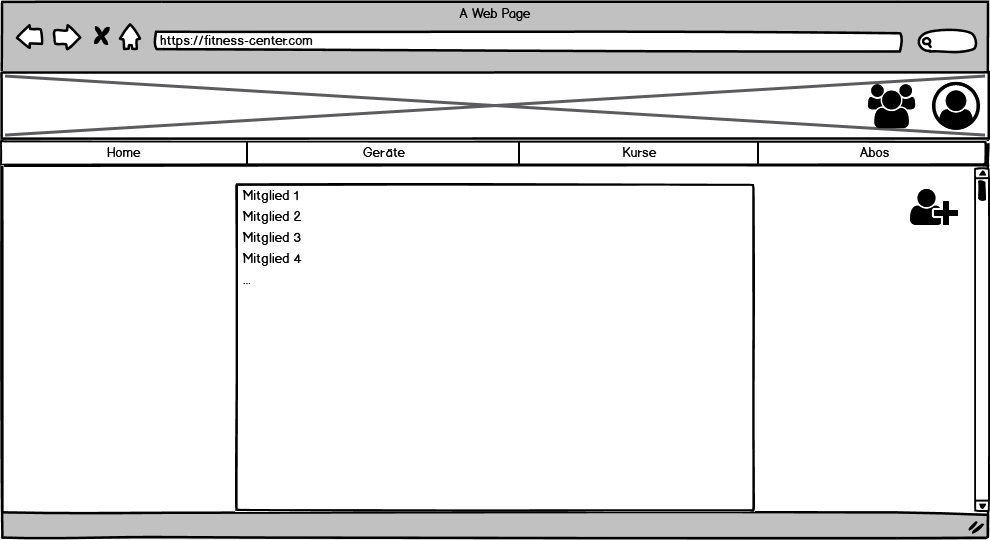
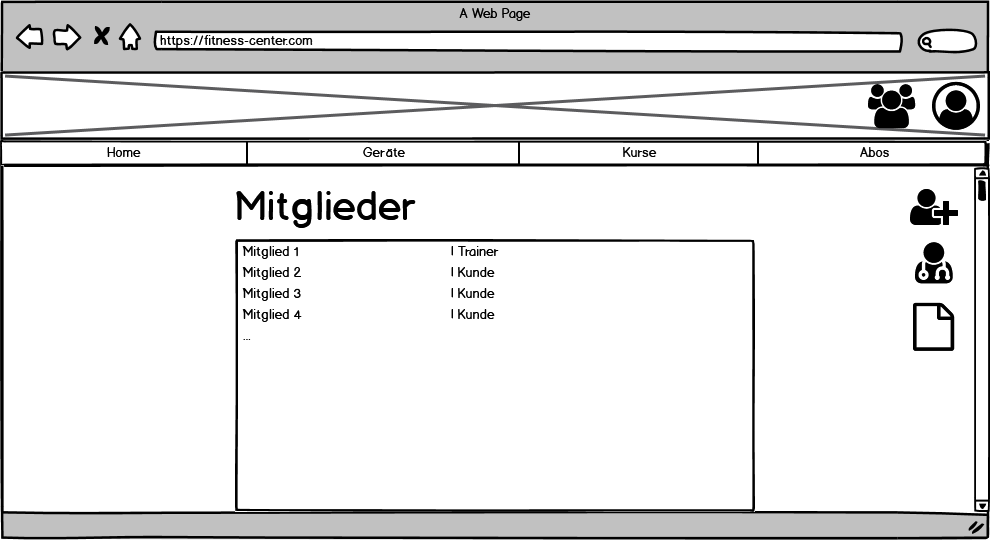
Anpassungen und Glossar

diff --git a/docs/malte_riechmann/spezifikation_fitnesscenter.md b/docs/malte_riechmann/spezifikation_fitnesscenter.md
@@ -105,29 +105,85 @@ PDF-Version mit Verlinkung im Projekt Repository
 
 ![abos](./img/mockups/home.png)
 
+User Story: Standorte anschauen
+
 #### Geräte
 
 ![abos](./img/mockups/geraete.png)
+
+User Story: Geräte anschauen/hinzufügen/bearbeiten/löschen
 
 #### Kurse
 
 ![abos](./img/mockups/kurse.png)
 
+User Story: Kurse anschauen/hinzufügen/bearbeiten/löschen
+
 #### Abos
 
 ![abos](./img/mockups/abos.png)
+
+User Story: Abonnement anschauen/hinzufügen/bearbeiten/löschen
 
 #### Profil
 
 ![abos](./img/mockups/profil.png)
 
+User Story: Persönlichen Daten ansehen/bearbeiten, Termin beim Physiotherapeuten beantragen
+
+#### Trainingsplan herunterladen
+
+![abos](./img/mockups/trainingsplan.png)
+
+User Story: Trainingsplan herunterladen
+
+#### Trainingsplan beantragen
+
+![abos](./img/mockups/trainingplan_antrag.png)
+
+User Story: Trainingsplan beantragen und Anamnese ausfüllen
+
 #### Mitglieder
 
 ![abos](./img/mockups/mitglieder.png)
 
+User Story: Alle Mitglieder anzeigen
+
+#### Mitglied einfügen
+
+![abos](./img/mockups/add_mitglied.png)
+
+User Story: Mitglied einfügen
+
+#### Trainingsplan Anträge
+
+![abos](./img/mockups/plan_antrag.png)
+
+User Story: Trainingsplan Anträge anzeigen
+
+#### Behandlungs-Anträge
+
+![abos](./img/mockups/behandlungs_antrag.png)
+
+User Story: Behandlungsanträge ansehen
+
 #### Mitglied Details
 
 ![abos](./img/mockups/mitglied_detail.png)
+
+User Story: Mitglied ansehen/bearbeiten/entfernen, Mitglieder Rolle einstellen
+
+#### Trainingsplan hochladen
+
+![abos](./img/mockups/trainingsplan_hochladen.png)
+
+User Story: Trainingsplan hinzufügen/ändern
+
+#### Behandlungsakte
+
+![abos](./img/mockups/akte_ansehen.png)
+
+User Story: Behandlungsakte einsehen/bearbeiten
 
 
 ## 2.5 Anforderungen im Detail
@@ -143,6 +199,8 @@ PDF-Version mit Verlinkung im Projekt Repository
 | Kunde | einen Termin beim Physiotherapeuten beantragen können | behandelte werden kann. | Anmeldungsformular für Physiotherapeuten vorhanden | optional |
 | Kunde | einen neuen Trainingsplan beantragen können | ich mein Training an meine aktuelle Verfassung anpassen kann. | Antragsformular für Trainingsplan vorhanden | optional |
 | Kunde | meine Trainingspläne  einsehen können | ich meine Fortschritte sehen kann. | Persönlicher Trainingsplan angezeigt wird | optional |
+| Kunde | meine persönlichen Daten einsehen können | ich sehe, was über mich gespeichert ist. | Persönliche Daten werden angezeigt | mittel |
+| Kunde | meine persönlichen Daten bearbeiten können | veraltete Informationen aktualisiert werden können- | Persönliche Daten werden geändert | mittel |
 
 **Allgemeine Verwaltung**
 
@@ -166,12 +224,8 @@ PDF-Version mit Verlinkung im Projekt Repository
 | Trainer/ Chef/ Physiotherapeut | Mitglieder ansehen können | ich die jeweiligen Mitglieder optimal beraten kann | Mitglieder angezeigt werden | hoch |
 | Trainer/ Chef/ Physiotherapeut | Mitglieder bearbeiten können | ich neue Information einfügen und veraltete entfernen kann | Mitglieder werden bearbeitet | mittel |
 | Trainer/ Chef/ Physiotherapeut | Mitglieder entfernen können | Persönlich Daten nicht gespeichert werden müssen, wenn es nicht nötig ist | Mitglieder werden gelöscht | hoch |
-| Chef | Trainerrollen vergeben können | neue Trainer alle wichtige Funktionen nutzen können | Trainerrolle hinzufügen | niedrig |
-| Chef | Trainerrollen entfernen können | ehemalige Trainer keinen Zugriff auf persönliche Daten haben | Trainerrolle entfernen | niedrig |
-| Chef | Physiotherapeuten-rolle vergeben können | neue Physiotherapeuten alle wichtige Funktionen nutzen können | Physiotherapeuten hinzufügen | niedrig |
-| Chef | Physiotherapeuten-rolle entfernen können | ehemalige Physiotherapeuten keinen Zugriff auf persönliche Daten haben | Physiotherapeuten entfernen | optional |
-| Chef | neue Chefs hinzufügen können | neue Führungspersonen auf alle Funktionen zugreifen können | Chef hinzufügen | optional |
-| Chef | Chefs entfernen können | ehemalige Führungspersonen keinen Zugriff auf persönliche Daten haben | Chef entfernen | optional |
+| Chef | Mitgliederrollen vergeben können | jeder Zugriff auf die relevanten Funktionen hat | Rolle ändern | niedrig |
+| Trainer/ Chef/ Physiotherapeut | alle Mitglieder ansehen können   | ich dann die Information zu den einzelnen Mitgliedern abrufen kann | Mitglieder anzeigen          | hoch          |
 
 **Trainer und Therapeuten Funktionen**
 
@@ -227,9 +281,6 @@ PDF-Version mit Verlinkung im Projekt Repository
 }
 ````
 
-
-- 
-
 ## 3.3.1 Ereignisse
 
 - In Event-gesteuerten Systemen: Definition der Ereignisse und deren Attribute
@@ -258,8 +309,6 @@ An dieser Stellen werden drei wichtige Abläufe in Form von Aktivitätsdiagramme
 
 ## 3.6 Entwurf
 
-- Detaillierte UML-Diagramme für relevante Softwarebausteine
-
 ## 3.7 Fehlerbehandlung 
 
 * Mögliche Fehler / Exceptions auflisten
@@ -280,12 +329,9 @@ An dieser Stellen werden drei wichtige Abläufe in Form von Aktivitätsdiagramme
 
 ## 4.2 Verantwortlichkeiten
 
-- Zuordnung von Personen zu Softwarebausteinen aus Kapitel 3.1 und 3.2
-- Rollendefinition und Zuordnung
-
 | Softwarebaustein | Person(en) |
 |----------|-----------|
-| Komponente A-Z | Malte Riechmann |
+| Alle | Malte Riechmann |
 
 ### Rollen
 
@@ -320,7 +366,19 @@ Implementiert die funktionale Logik der Anwendung. Hierbei werden zudem diverse 
 
 ## 5.1 Glossar 
 
-- Definitionen, Abkürzungen, Begriffe
+| Begriff                  | Erläuterung des Begriffs im Kontext diese Spezifikation      |
+| ------------------------ | ------------------------------------------------------------ |
+| Trainingsplan            | Ein Trainingsplan enthält die verschiedenen Geräte, an denen der Kunde pro Trainingseinheit trainiert. Außerdem enthält er Information wie viele Sätze je Gerät getätigt werden sollen (Anzahl aktiver Phasen) und wie viele Wiederholungen in jedem Satz (bei zyklischen Übungen) oder einer Dauer (bei nicht zyklischen Übungen) |
+| Abonnement               | Ein Kunde der aktiv trainiert muss für die Nutzung der Services monatlich einen bestimmten Betrag Zahlen. Die höhe dieses Betrages und wie Anzahl der Monate, die der Kunde mindestens bezahlen muss werden in einem Abonnement festgehalten. |
+| Physiotherapeut (Physio) | Ausgebildet Fachkräfte zur Prävention, Behandlung und Rehabilitation von Verletzungen im Bereich oder Bedingt durch Körperhaltung, Beweglichkeit, Kraft, Geschicklichkeit und ähnlichem. Außerdem können sie Funktionen im Wellnessbereich übernehmen zur Erhaltung der körperlichen und geistigen Gesundheit und Leistungsfähigkeit. Ein Physiotherapeut ist zudem auch ein ausgebildeter Trainer. |
+| Trainer                  | Sind Fachkräfte mit mindestens einer C-Lizenz im Fitnesstrainer Bereich |
+| Chef                     | Der Chef übernimmt Verwaltungsaufgaben. Er stellt Arbeitspläne auf und kümmert sich um alle finanziellen und organisatorischen Aufgaben. |
+| Kurs                     | Ein Kurs ist ein festes Fitness-Programm welches ein Trainer mit einer Gruppe von bis zu 20 Leuten durchführt. Dies kann Materialien um fassen, muss es aber nicht. Kurse sollten intensiv sein und eine Dauer von 2 Stunden nicht überschreiten, da nicht so gut auf einzelne Personen eingegangen werden kann. |
+| (Trainings-)Gerät        | Alle Geräte die in einer bestimmten Sportart nur dem Training dienen (Beispiel:Laufband, Hometrainer) oder die sportartenübergreifenden als Trainingsgeräte genutzt werden |
+| Behandlungsakte          | Die Behandlungsakte dient als Protokoll zu den einzelnen Terminen eines Kunden beim Physiotherapeuten. Sie enthält Daten bezüglich der angewendeten Methoden, dem gesundheitlichen Zustand und dem geplanten weiteren Vorgehen. |
+| Rollen                   | Ein Mitglied kann die Rollen Trainer, Kunde, Physiotherapeut und Chef einnehmen. |
+| Trainer Lizenzen         | Die Fitnesstrainer Lizenzen beginnen bei Stufe C und gehen bis Stufe A. Die Stufe C umfasst Grundlagen bezüglich der Anatomie und Physiologie des menschlichen Körpers. Außerdem enthält er Vorgehensweisen zum Umgang mit Kunden. Bei höheren Stufen wird diese Wissen erheblich vertieft. |
+| Kunde                    | Mitglieder des Fitness Centers, die ein aktives Abonnement haben. |
 
 ## 5.2 Referenzen
 
